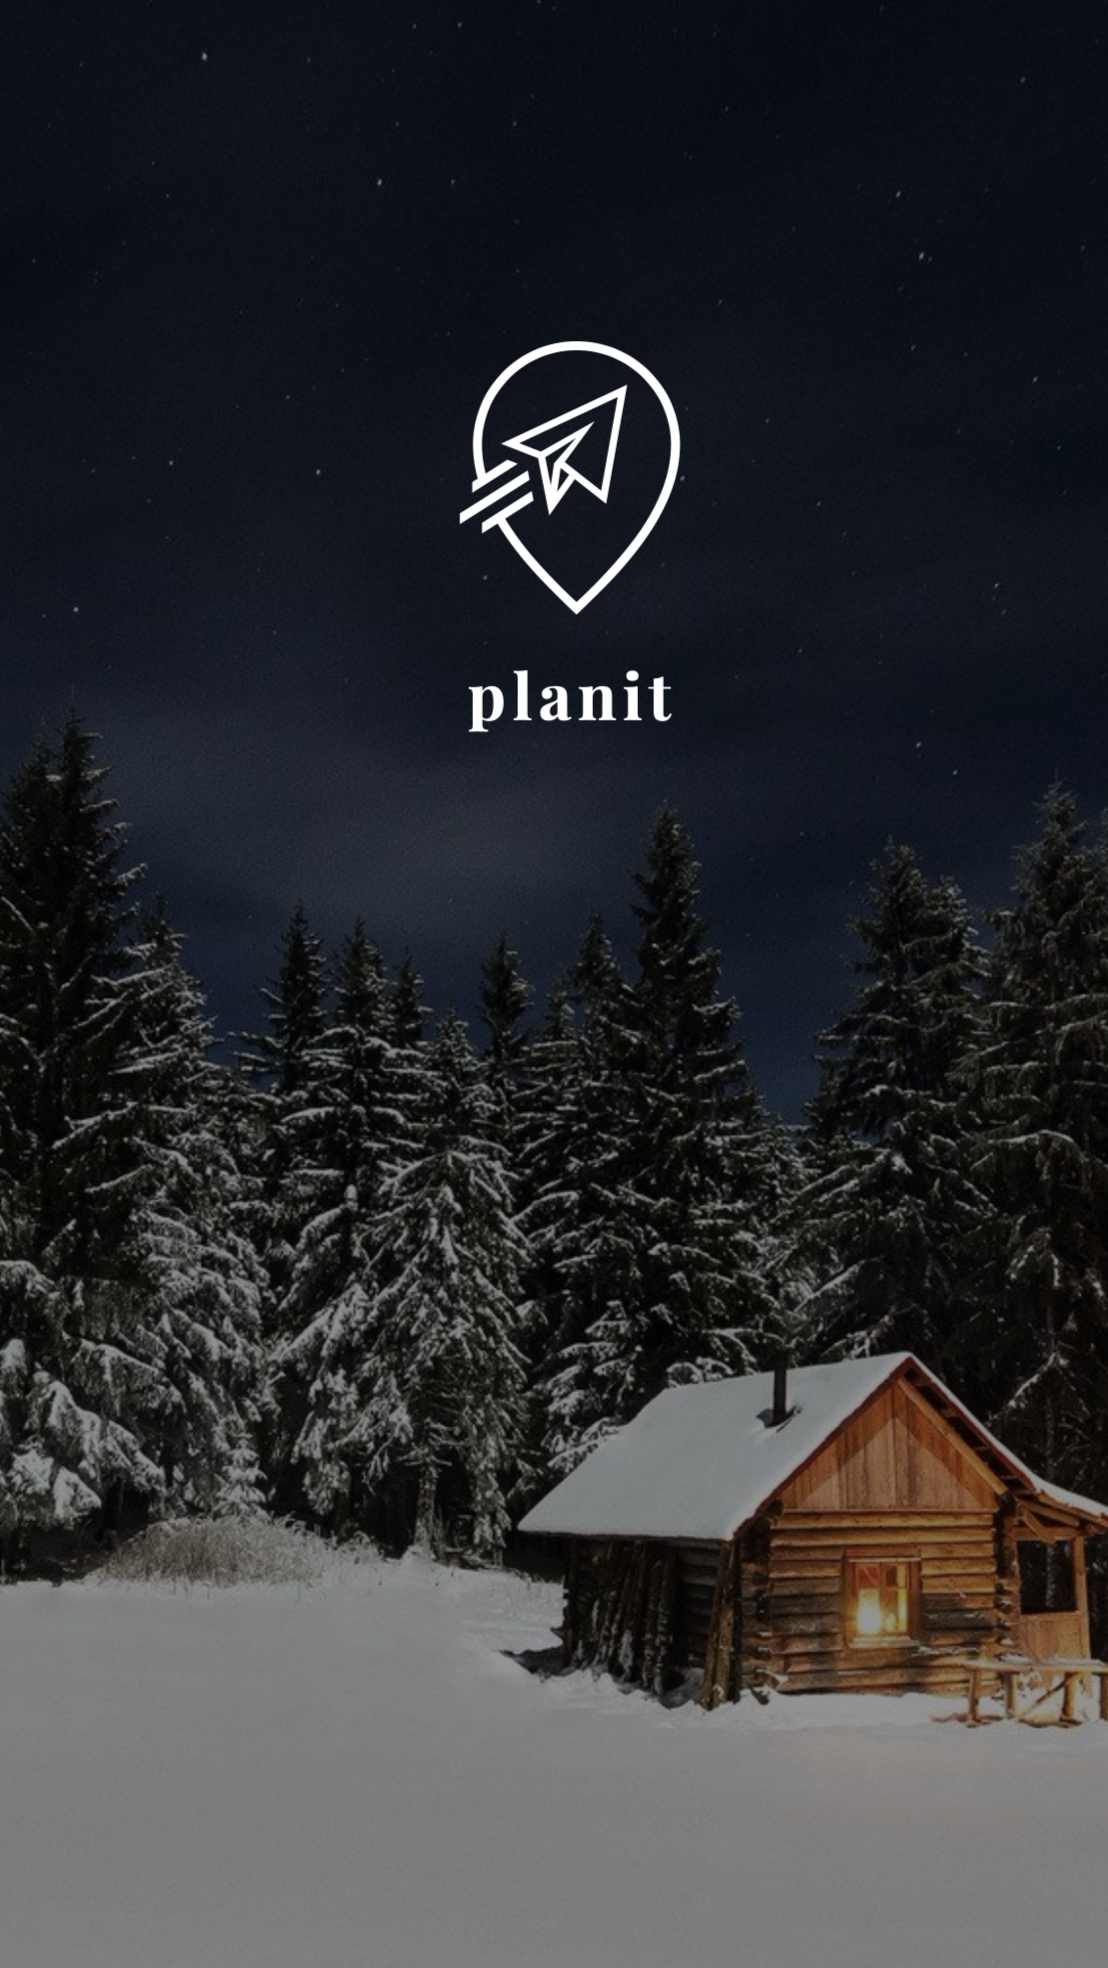
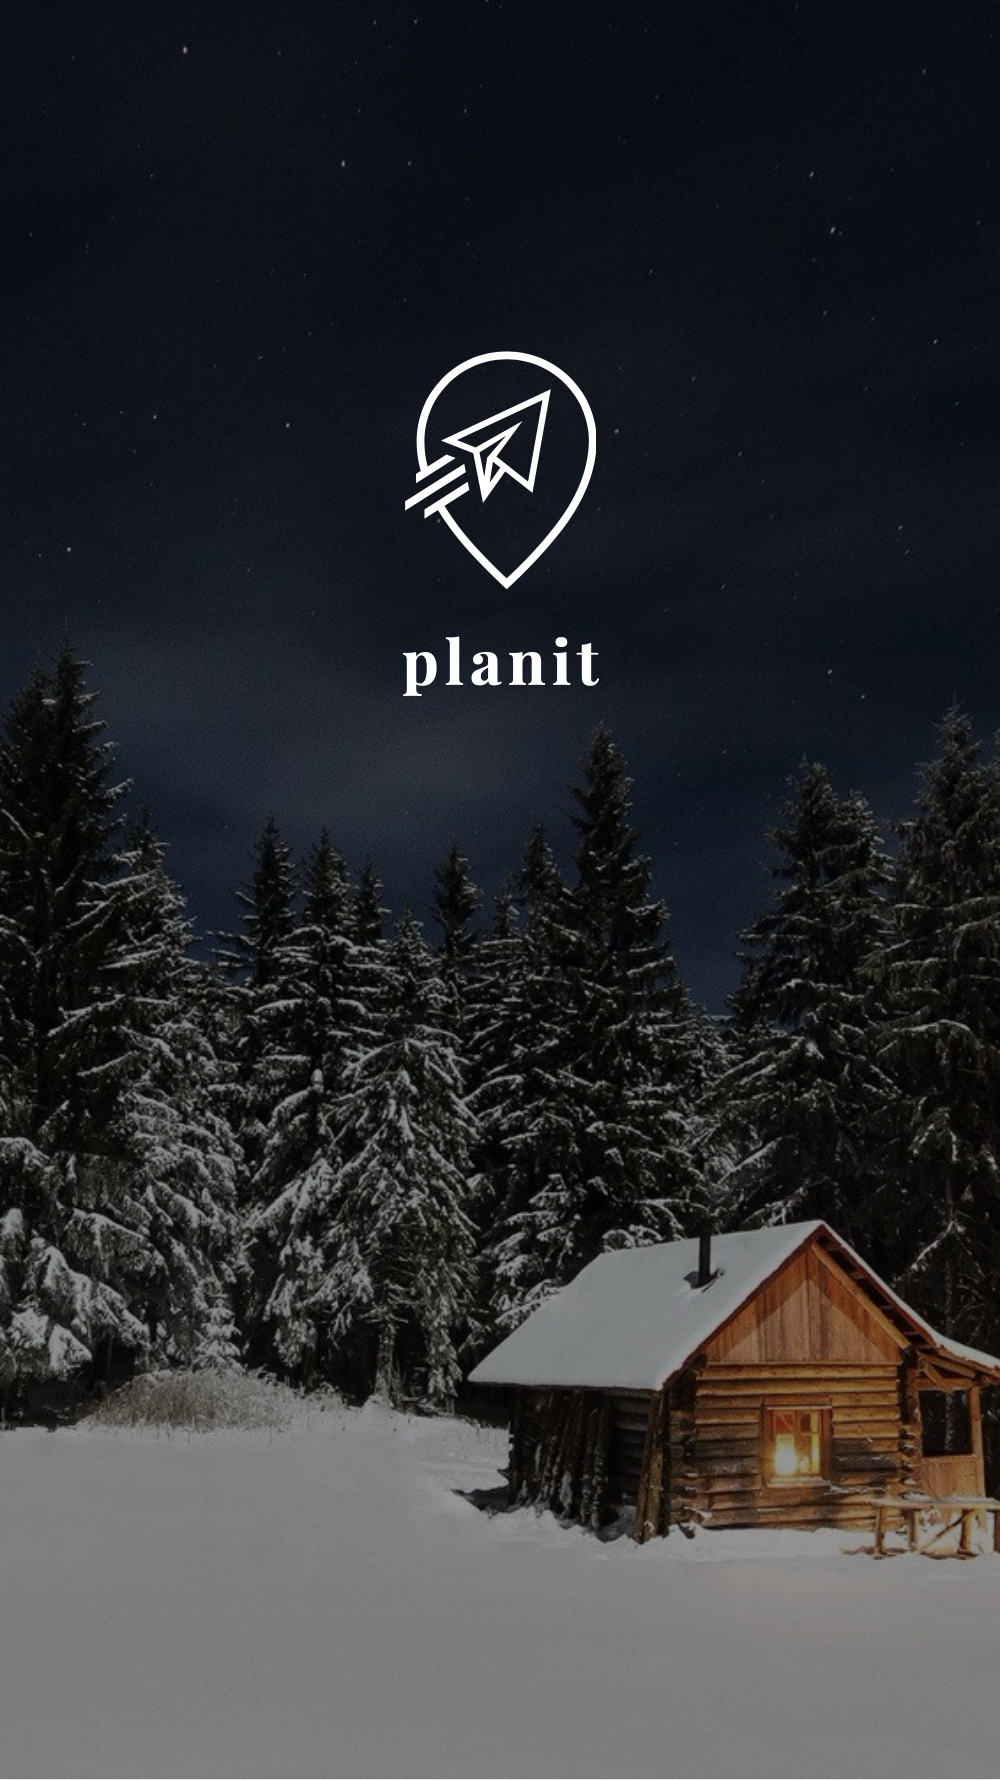
Add design to search bar --completed

diff --git a/src/components/Register.js b/src/components/Register.js
@@ -77,10 +77,7 @@ export default function Register (props) {
   return (
     <div class="login">
       <div class="sign-in-text">
-        <h5>Create a New Account</h5>
-      </div>
-      <div>
-      <p class="register-p">Please fill in the form</p>
+        <p>Create a New Account</p>
       </div>
     <div class="register-form">
     <form class="register-form" action="/register" method="POST">
@@ -90,7 +87,6 @@ export default function Register (props) {
               className="form-control"
               id="full_name"
               placeholder="Enter Your Name" 
-              name="full_name" 
               value={state.full_name}
               onChange={handleChange}
               style= {{backgroundColor: "#171e2c", color: "#FFFFFF", border: "none"}}
@@ -101,6 +97,7 @@ export default function Register (props) {
         <input type="email" 
               className="form-control" 
               id="email" 
+              class="register-email"
               placeholder="Enter Email" 
               value={state.email}
               onChange={handleChange} 
@@ -112,6 +109,7 @@ export default function Register (props) {
         <input type="password" 
               className="form-control" 
               id="password" 
+              class="register-password"
               placeholder="Enter Password"
               value={state.password}
               onChange={handleChange}

diff --git a/src/components/Login.js b/src/components/Login.js
@@ -62,16 +62,16 @@ export default function Login (props) {
     <div class="login">
 
        <div class="sign-in-text">
-          <h5>Sign in</h5>
+         
         </div>
 
       <div class="login-form">
-        <form class="login-form" action="/login" method="POST">
+      <form class="login-form" action="/login" method="POST">
 
       <label for="email"></label>
       <input type="email" 
-             className="form-control" 
-             class="input"
+             class="login-email"
+             
              id="email" 
              placeholder="Enter email" 
              value={state.email}
@@ -79,9 +79,9 @@ export default function Login (props) {
              style= {{backgroundColor: "#171e2c", color: "#FFFFFF", border: "none"}}/>
 
       <label for="password"></label>
-      <input 
+      <input class="login-password"
              type="password" 
-             className="form-control" 
+            
              id="password" 
              placeholder="Password"
              value={state.password}

diff --git a/src/profile.css b/src/profile.css
@@ -1,21 +1,20 @@
 html, body {
   margin: 0;
   height: 100%;
-  background-color: rgb(6,52,52);
+  background-color: #ffffff;
 }
+
 
 .profile {
-  display: flex; 
-  flex-direction: column;
-  justify-content: center; 
-  background-color: rgb(6,52,52);
-  color: #FFFFFF; 
-  font-style: inherit;
-}
-
-.profile-logo {
   display: flex;
+  flex-direction: column;
   justify-content: center;
+  align-items: center;
+  background-image: url('./profile.png');
+  background-repeat: no-repeat;
+  background-size: 100%; 
+  color: #ffffff;
+  font-family: "Raleway", sans-serif;
 }
 
 h1 {
@@ -44,10 +43,23 @@ h1 {
   border-radius: 8px;
   color: white;
   border: none;
-  margin-top: 2em; 
+  margin-bottom: 11em; 
 }
 
 .logout-btn:hover {
   background-color: #fd7d00 ; /* Green */
   color: white;
+}
+.profile-form {
+  display: flex; 
+  flex-direction: column;
+  justify-content: center;
+  align-items: center;
+  margin-bottom: 3em;
+  
+}
+
+.profile-info {
+  font-weight: bolder;
+  font-weight: 900;
 }

diff --git a/src/register.css b/src/register.css
@@ -15,12 +15,12 @@ body {
   background-repeat: no-repeat;
   background-size: 100%; 
 }
-.registerHeader{
+.registerHeader {
   display: flex; 
   flex-direction: column; 
   align-items:center;
 }
-.registerLogo{
+.registerLogo {
   display: flex; 
   justify-content: center; 
   margin-top: 3em;
@@ -34,7 +34,7 @@ body {
   margin-bottom: 4em;
 }
 
-#register-login{
+#register-login {
   color:#FFFFFF;
 }
 .register-button {
@@ -43,9 +43,33 @@ body {
   text-align: center;
 }
 
+#full_name {
+  border-top-right-radius: 8px;
+  border-top-left-radius: 8px;
+  height: 2.5em;
+  width: 50vw;
+}
+
+#confirmPassword {
+  border-bottom-left-radius: 8px;
+  border-bottom-right-radius: 8px;
+  height: 2.5em;
+  width: 50vw;
+}
+
+.register-email {
+  height: 2.5em;
+  width: 50vw;
+}
+
+.register-password {
+  height: 2.5em;
+  width: 50vw;
+}
+
 .register-btn {
   font-size: 15px;
-  padding: 10px 20px;
+  padding: 7px 15px;
   background-color: #fd9d00;
   border-radius: 8px;
   color: white;

diff --git a/src/components/Profile.js b/src/components/Profile.js
@@ -39,19 +39,16 @@ export default function Profile (props) {
   // }
   console.log(props.user, "outside useeffect")
   return (
-    <body>
-     
+   
     <div class="profile">
-      <div class="profile-logo">
-      <img src={logo} alt="Logo" />
+      <div class="sign-in-text">
+        <p>Profile</p>
       </div>
-      <div>
-        <h1>Profile</h1>
-      </div>
+    
        { !props.user ? null :
-      <div class="profile-details">
-        <p>Name: {props.user.full_name}</p>
-        <p>Email: {props.user.email}</p>
+      <div class="profile-form">
+        <p><strong> Name: </strong> {props.user.full_name}</p>
+        <p><strong> Email: </strong> {props.user.email}</p>
       </div> 
       }
       <div class="logout-button">
@@ -60,7 +57,8 @@ export default function Profile (props) {
               class="logout-btn" 
               onClick={handleSubmitClick}>Logout</button>
       </div>
+     
     </div>
-    </body>
+
   );
 }

diff --git a/src/components/SearchBar.js b/src/components/SearchBar.js
@@ -1,5 +1,6 @@
 import React, { useState, useEffect, useCallback }from "react";
 import useDebounce from "../../src/hooks/useDebounce";
+import "../searchbar.css"
 
 export default function SearchBar (props) {
   const [value, setValue] = useState("");
@@ -11,14 +12,13 @@ export default function SearchBar (props) {
   }, [term, onSearch]);
 
   return (
-    <div>
-      <h1>Explore</h1>
-      <section className="search">
+    <div class="search-file">
+      <section class="search-section">
         <form className="search__form" onSubmit={event => event.preventDefault()}>
           <input
-            className="radius"
+            class="search-input"
             spellCheck="false"
-            placeholder="Search Activities"
+            placeholder="Search Here"
             name="search"
             type="text"
             value={value}

diff --git a/public/index.html b/public/index.html
@@ -1,7 +1,8 @@
 <!DOCTYPE html>
 <html lang="en">
   <head>
-    <link href="https://fonts.googleapis.com/css2?family=Raleway:wght@500&display=swap" rel="stylesheet" />
+    <link rel="preconnect" href="https://fonts.gstatic.com">
+    <link href="https://fonts.googleapis.com/css2?family=Raleway:ital,wght@0,100;0,200;0,300;0,400;0,500;0,600;0,700;0,800;0,900;1,100;1,200;1,300;1,400;1,500;1,600;1,700;1,800;1,900&display=swap" rel="stylesheet">
     <link rel="stylesheet" href="https://pro.fontawesome.com/releases/v5.10.0/css/all.css" integrity="sha384-AYmEC3Yw5cVb3ZcuHtOA93w35dYTsvhLPVnYs9eStHfGJvOvKxVfELGroGkvsg+p" crossorigin="anonymous"/>
     <link rel="stylesheet" href="https://www.w3schools.com/w3css/4/w3.css">
     <meta charset="utf-8" />

diff --git a/src/login.css b/src/login.css
@@ -29,6 +29,7 @@ body {
   justify-content: center;
   align-items: center;
   margin-bottom: 7em;
+  margin-top: 1em;
   
 }
 
@@ -64,7 +65,7 @@ input {
 
 .login-btn {
   font-size: 15px;
-  padding: 10px 20px;
+  padding: 7px 15px;
   background-color: #fd9d00;
   border-radius: 8px;
   color: white;
@@ -80,4 +81,25 @@ input {
 
 #signup {
   color: white
+}
+
+.login-email {
+  border-top-right-radius: 8px;
+  border-top-left-radius: 8px;
+  height: 2.5em;
+  width: 50vw;
+}
+
+.login-password {
+  border-bottom-left-radius: 8px;
+  border-bottom-right-radius: 8px;
+  height: 2.5em;
+  width: 50vw;
+}
+
+::-webkit-input-placeholder {
+  display: flex;  
+  color: #bdbdbd;
+  text-align: center;
+ 
 }

diff --git a/src/searchbar.css b/src/searchbar.css
@@ -1,0 +1,28 @@
+.search-file {
+  font-family: "Raleway", sans-serif;
+  display: flex;
+  flex-direction: column;
+  justify-content: center;
+  align-items: center;
+  background-image: url('./searchbar.png');
+  background-repeat: no-repeat;
+  background-size: 100%; 
+  color: #ffffff;
+}
+
+.search-section {
+  margin-top: 10em; 
+  margin-bottom: 30em; 
+}
+
+.search-input {
+  background-color: #171e2c !important;
+  color: #ffffff !important;
+  border: none;
+  margin-top: 6em;
+  padding-left: 5em;
+  padding-right: 5em;
+  padding-top: 1em;
+  padding-bottom:1em;
+}
+
